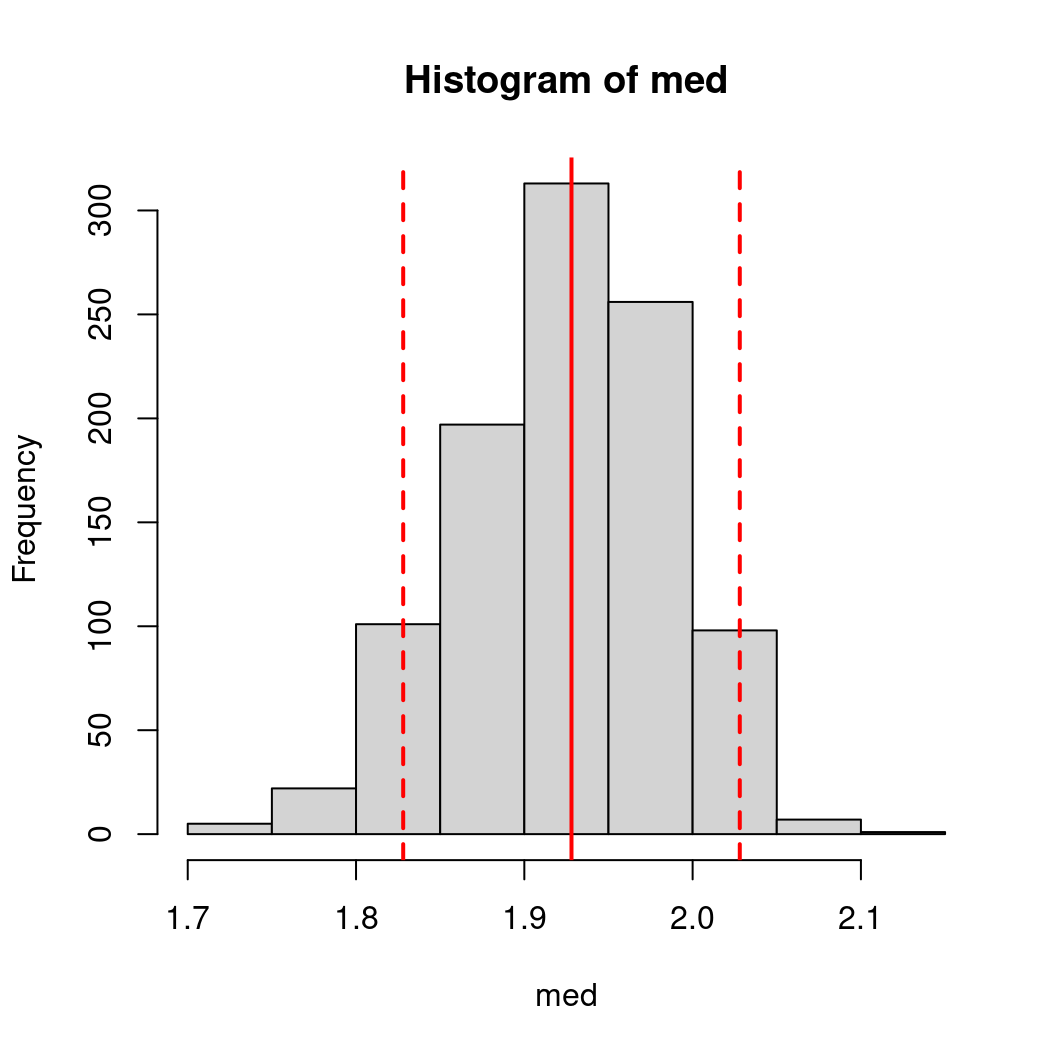
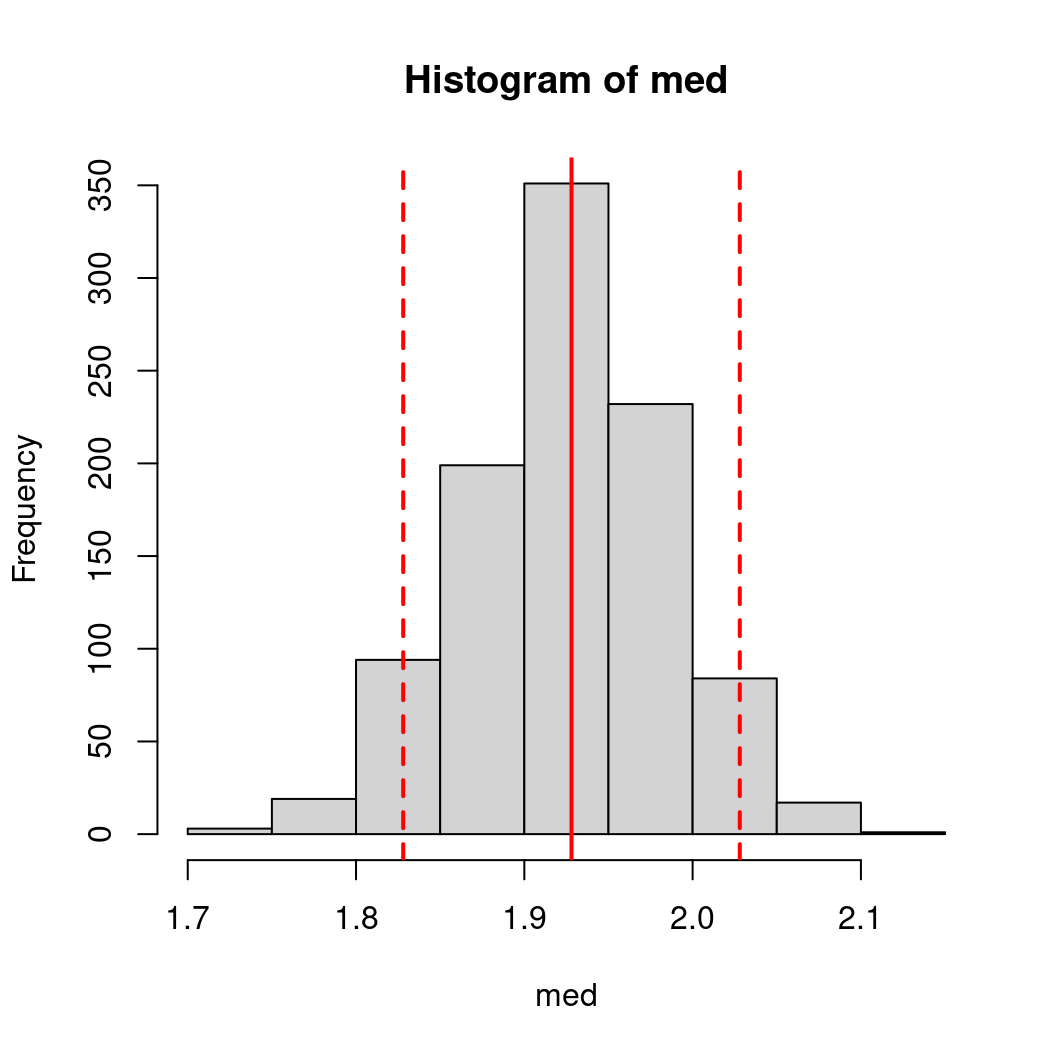
v061.1
correção

diff --git a/U4_inferencia/inferencia.html b/U4_inferencia/inferencia.html
@@ -730,7 +730,7 @@ Agora, derivando <span class="math inline">\(F_Y(y)\)</span>, obtemos
 <p><img data-src="inferencia_files/figure-revealjs/unnamed-chunk-1-1.png" width="528"></p>
 </div>
 <div class="cell-output cell-output-stdout">
-<pre><code>P[Med. Amost. ∈ (Med. Pop. ± 0.1)] ≈ 0.891</code></pre>
+<pre><code>P[Med. Amost. ∈ (Med. Pop. ± 0.1)] ≈ 0.899</code></pre>
 </div>
 </div>
 </div>
@@ -772,7 +772,7 @@ Agora, derivando <span class="math inline">\(F_Y(y)\)</span>, obtemos
 <p><img data-src="inferencia_files/figure-revealjs/unnamed-chunk-2-1.png" width="528"></p>
 </div>
 <div class="cell-output cell-output-stdout">
-<pre><code>P[Med. Amost. ∈ (Med. Pop. ± 0.1)] ≈ 0.973</code></pre>
+<pre><code>P[Med. Amost. ∈ (Med. Pop. ± 0.1)] ≈ 0.983</code></pre>
 </div>
 </div>
 </div>
